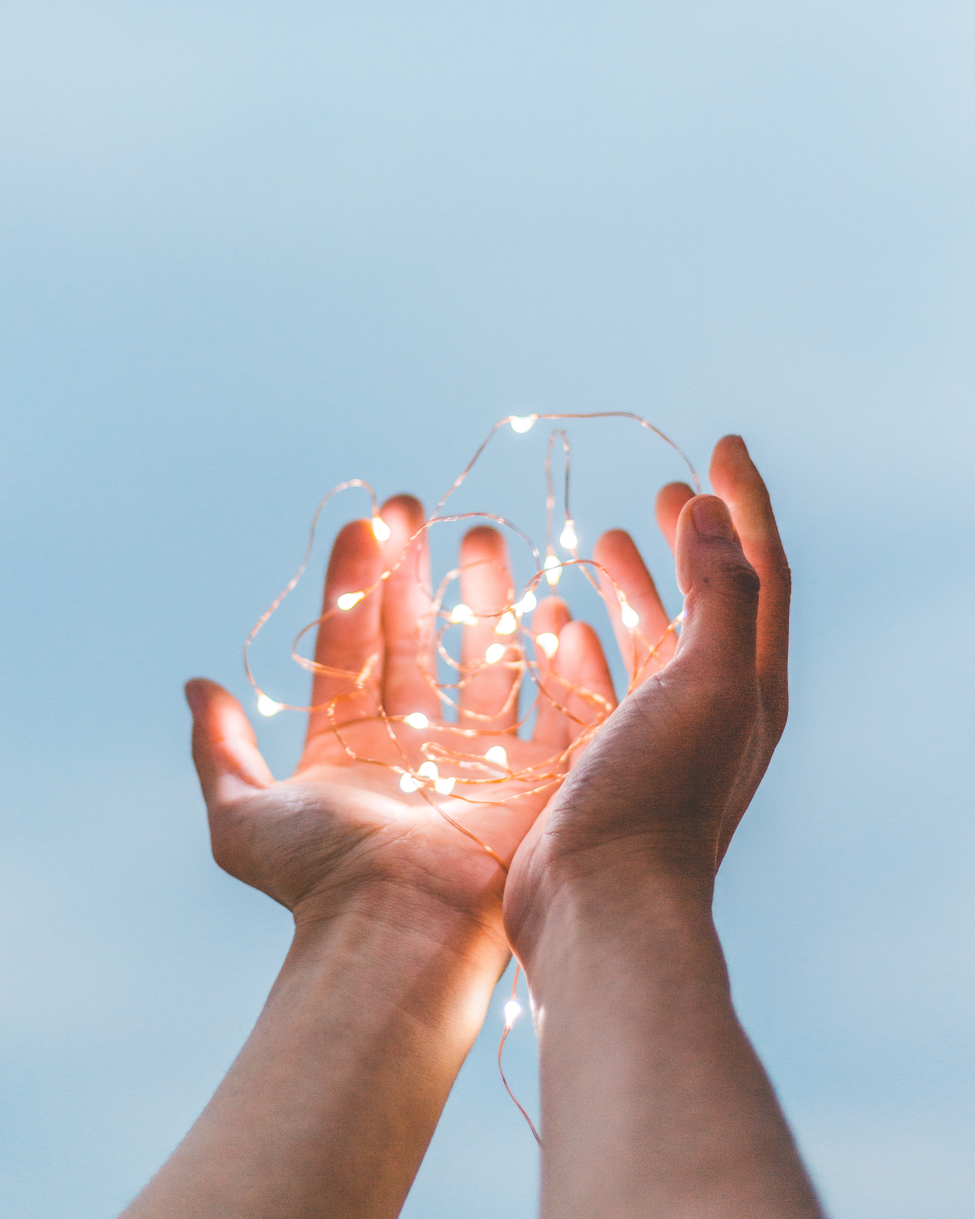
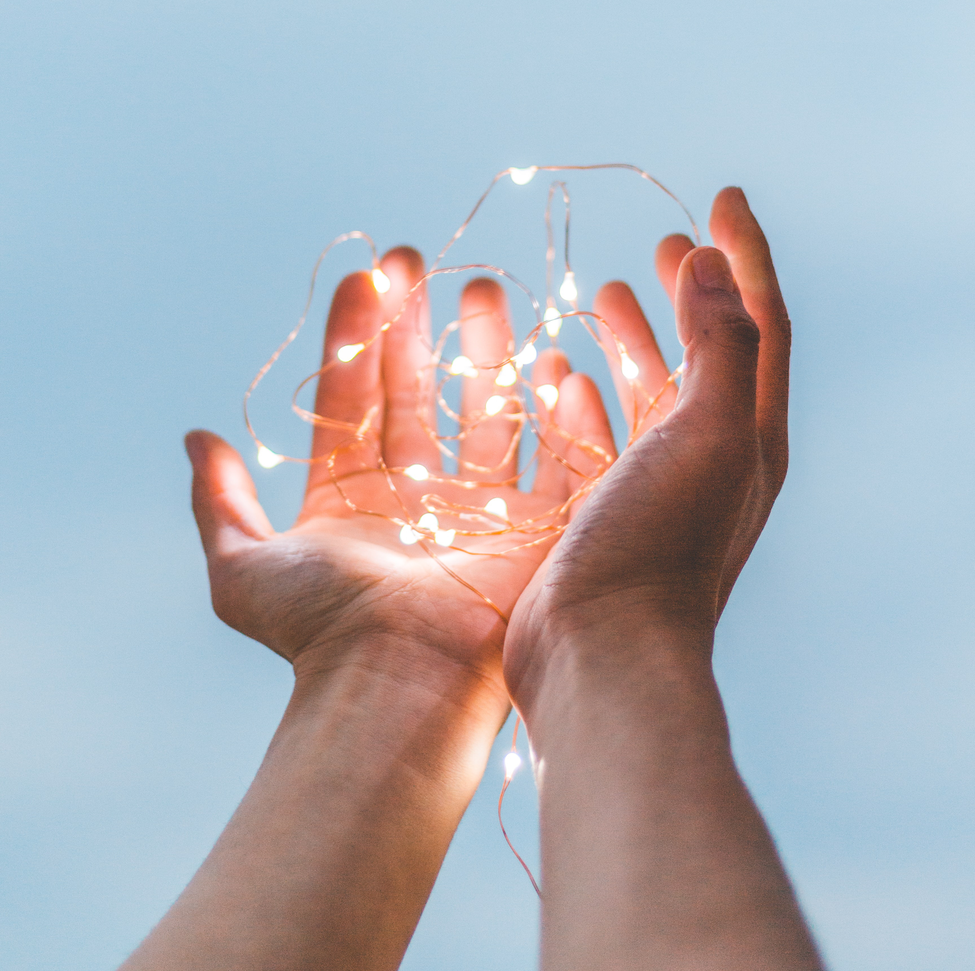
top pic update

diff --git a/index.html b/index.html
@@ -108,26 +108,30 @@
 
     <div class="site-blocks-cover" style="overflow: hidden;">
       <div class="container">
-        <div class="row align-items-center justify-content-center">
 
+        <div class="row align-items-center justify-content-center" data-aos="fade-up" data-aos-delay="200">
+          <div class="col-lg-5 ml-auto pl-lg-5">
+            <h2 class="text-black mb-4 h3 font-weight-bold">Making online donations easy</h2>
+            <p class="mb-4">newspark is an online donation platform that bridges the gap between viewing online content and donating to the causes we care about. With newspark, let's make the world a better place - one click at a time.</p>
+          </div>
+          <div class="col-lg-6" data-aos="fade-right">
+            <img src="images/hands-top_small.jpg" alt="Image" class="img-fluid">
+          </div>
+        </div>
+
+        <!-- <div class="row align-items-center justify-content-center">
           <div class="col-md-12" style="position: relative;" data-aos="fade-up" data-aos-delay="200">
-
             <img src="images/hands-top.jpg" alt="Image" class="img-fluid img-absolute">
 
             <div class="row mb-4" data-aos="fade-up" data-aos-delay="200">
               <div class="col-lg-6 mr-auto">
                 <h1>Making online donations easy</h1>
                 <p class="mb-5" id="test123">newspark is an online donation platform that bridges the gap between viewing online content and donating to the causes we care about. With newspark, let's make the world a better place - one click at a time.
-<!--                 <div>
-                  <a href="#" class="btn btn-primary mr-2 mb-2">Learn More</a>
-                </div> -->
               </div>
-
-
             </div>
 
           </div>
-        </div>
+        </div> -->
       </div>
     </div>
 
@@ -166,7 +170,7 @@
         </div>
         <div class="row mb-5">
           <div class="col-lg-6" data-aos="fade-right">
-            <img src="images/app_pic_wide.png" alt="Image" class="img-fluid product-img">
+            <img src="images/app_pic_wide.png" alt="Image" class="img-fluid">
           </div>
           <div class="col-lg-5 ml-auto pl-lg-5">
             <h2 class="text-black mb-4 h3 font-weight-bold">Maximize your social impact</h2>

diff --git a/css/style.css b/css/style.css
@@ -633,10 +633,10 @@ h1, h2, h3, h4, h5,
   position: absolute;
   bottom: 0;
   right: 0;
-  top: 60%;
-  -webkit-transform: translateY(-50%) translateX(50%);
-  -ms-transform: translateY(-50%) translateX(50%);
-  transform: translateY(-50%) translateX(50%); }
+  top: 90%;
+  -webkit-transform: translateY(-50%) translateX(55%);
+  /* -ms-transform: translateY(-50%) translateX(50%); */
+  /* transform: translateY(-50%) translateX(50%); } */
   .img-absolute img {
     max-width: 100%; }
   @media (max-width: 991.98px) {
